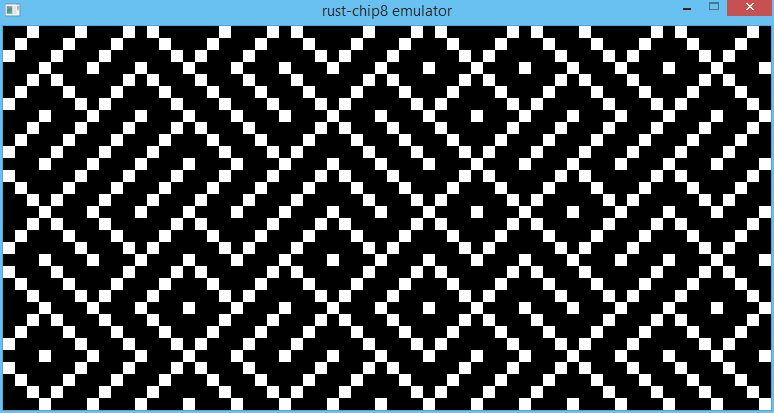
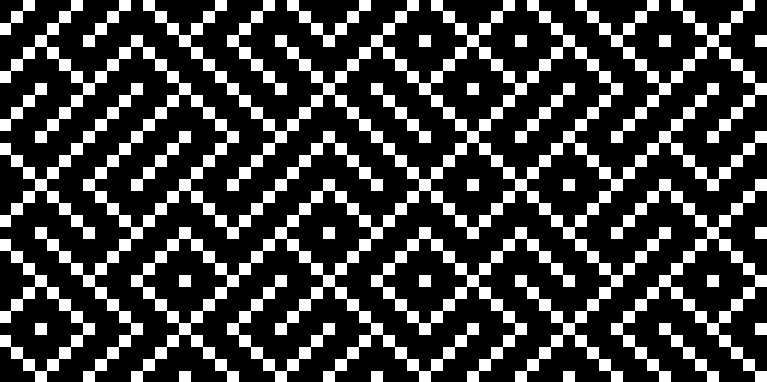
Update README.md
Cropped the screenshot maze.png, which is now showed in the README.md.
Also added the link to the chip8.com ROMs collection.

diff --git a/README.md b/README.md
@@ -13,3 +13,14 @@ Created for learning purposes.
 [rust-rand]: https://github.com/rust-lang/rand
 [rust-log]: https://github.com/rust-lang/log
 [rust-getopts]: https://github.com/rust-lang/getopts
+
+# Screenshots
+
+Maze
+
+![Maze](/img/maze.png?raw=true)
+
+# Resources
+The [chip8.com][chip8-roms] website offers a comprehensive collection of game and demo ROMs.
+
+[chip8-roms]: http://www.chip8.com/?page=109
